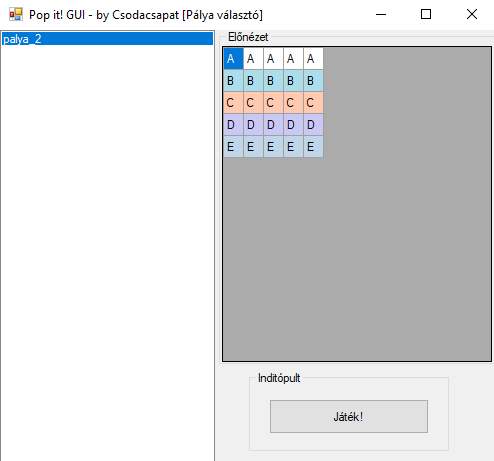
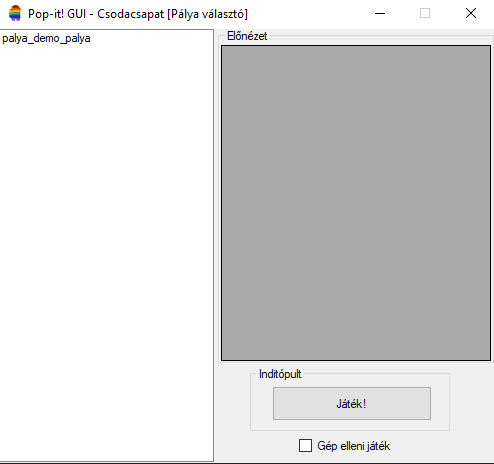
Fejlesztoi dokumentacio kepek

Changed region(s): [[0.0, 0.0, 1.0, 1.0], [0.8502, 0.0, 0.8806, 0.0607], [0.9413, 0.0, 0.9717, 0.0304]]

diff --git a/Pop_it_GUI/Pop_it_GUI/Form1.Designer.cs b/Pop_it_GUI/Pop_it_GUI/Form1.Designer.cs
@@ -60,7 +60,7 @@ namespace Pop_it_GUI
             this.btn_popithub.Name = "btn_popithub";
             this.btn_popithub.Size = new System.Drawing.Size(226, 28);
             this.btn_popithub.TabIndex = 1;
-            this.btn_popithub.Text = "Pop it! - Hub";
+            this.btn_popithub.Text = "Pop-it! - hub";
             this.btn_popithub.UseVisualStyleBackColor = true;
             this.btn_popithub.Click += new System.EventHandler(this.btn_popithub_Click);
             // 
@@ -81,7 +81,7 @@ namespace Pop_it_GUI
             this.btn_generalas.Name = "btn_generalas";
             this.btn_generalas.Size = new System.Drawing.Size(226, 28);
             this.btn_generalas.TabIndex = 2;
-            this.btn_generalas.Text = "Generálás";
+            this.btn_generalas.Text = "Pályagenerálás";
             this.btn_generalas.UseVisualStyleBackColor = true;
             this.btn_generalas.Click += new System.EventHandler(this.btn_generalas_Click);
             // 
@@ -101,9 +101,9 @@ namespace Pop_it_GUI
             this.label1.Font = new System.Drawing.Font("Microsoft Sans Serif", 15.75F, System.Drawing.FontStyle.Bold, System.Drawing.GraphicsUnit.Point, ((byte)(238)));
             this.label1.Location = new System.Drawing.Point(71, 9);
             this.label1.Name = "label1";
-            this.label1.Size = new System.Drawing.Size(239, 25);
+            this.label1.Size = new System.Drawing.Size(240, 25);
             this.label1.TabIndex = 6;
-            this.label1.Text = "Pop it! - Csodacsapat";
+            this.label1.Text = "Pop-it! - Csodacsapat";
             // 
             // label2
             // 
@@ -140,7 +140,7 @@ namespace Pop_it_GUI
             this.MinimumSize = new System.Drawing.Size(402, 309);
             this.Name = "Form1";
             this.StartPosition = System.Windows.Forms.FormStartPosition.CenterScreen;
-            this.Text = "Pop it! GUI - Csodacsapat [Menü]";
+            this.Text = "Pop-it! GUI - Csodacsapat [Menü]";
             this.FormClosed += new System.Windows.Forms.FormClosedEventHandler(this.Form1_FormClosed);
             this.groupBox1.ResumeLayout(false);
             this.ResumeLayout(false);

diff --git a/Pop_it_GUI/Pop_it_GUI/PalyaValasztoForm.Designer.cs b/Pop_it_GUI/Pop_it_GUI/PalyaValasztoForm.Designer.cs
@@ -29,6 +29,7 @@ namespace Pop_it_GUI
         /// </summary>
         private void InitializeComponent()
         {
+            System.ComponentModel.ComponentResourceManager resources = new System.ComponentModel.ComponentResourceManager(typeof(PalyaValasztoForm));
             this.listbox_palyak = new System.Windows.Forms.ListBox();
             this.panel1 = new System.Windows.Forms.Panel();
             this.cb_botPlay = new System.Windows.Forms.CheckBox();
@@ -128,12 +129,13 @@ namespace Pop_it_GUI
             this.Controls.Add(this.panel1);
             this.Controls.Add(this.listbox_palyak);
             this.FormBorderStyle = System.Windows.Forms.FormBorderStyle.FixedSingle;
+            this.Icon = ((System.Drawing.Icon)(resources.GetObject("$this.Icon")));
             this.MaximizeBox = false;
             this.MaximumSize = new System.Drawing.Size(511, 473);
             this.MinimumSize = new System.Drawing.Size(511, 473);
             this.Name = "PalyaValasztoForm";
             this.StartPosition = System.Windows.Forms.FormStartPosition.CenterScreen;
-            this.Text = "Pop it! GUI - Csodacsapat [Pálya választó]";
+            this.Text = "Pop-it! GUI - Csodacsapat [Pálya választó]";
             this.Activated += new System.EventHandler(this.PalyaValasztoForm_Activated);
             this.FormClosed += new System.Windows.Forms.FormClosedEventHandler(this.PalyaValasztoForm_FormClosed);
             this.panel1.ResumeLayout(false);

diff --git a/Pop_it_GUI/Pop_it_GUI/JatekForm.Designer.cs b/Pop_it_GUI/Pop_it_GUI/JatekForm.Designer.cs
@@ -89,7 +89,7 @@ namespace Pop_it_GUI
             this.MinimumSize = new System.Drawing.Size(584, 633);
             this.Name = "JatekForm";
             this.StartPosition = System.Windows.Forms.FormStartPosition.CenterScreen;
-            this.Text = "Pop it! GUI - Csodacsapat [Játék]";
+            this.Text = "Pop-it! GUI - Csodacsapat [Játék]";
             this.FormClosing += new System.Windows.Forms.FormClosingEventHandler(this.JatekForm_FormClosing);
             this.KeyPress += new System.Windows.Forms.KeyPressEventHandler(this.JatekForm_KeyPress);
             ((System.ComponentModel.ISupportInitialize)(this.dgv_jatekter)).EndInit();

diff --git a/Pop_it_GUI/Pop_it_GUI/GeneralasForm.Designer.cs b/Pop_it_GUI/Pop_it_GUI/GeneralasForm.Designer.cs
@@ -312,7 +312,7 @@ namespace Pop_it_GUI
             this.MinimumSize = new System.Drawing.Size(737, 605);
             this.Name = "GeneralasForm";
             this.StartPosition = System.Windows.Forms.FormStartPosition.CenterScreen;
-            this.Text = "Pop it! GUI - Csodacsapat [Generátor]";
+            this.Text = "Pop-it! GUI - Csodacsapat [Generátor]";
             this.FormClosed += new System.Windows.Forms.FormClosedEventHandler(this.GeneralasForm_FormClosed);
             this.DoubleClick += new System.EventHandler(this.GeneralasForm_DoubleClick);
             ((System.ComponentModel.ISupportInitialize)(this.nm_curves)).EndInit();

diff --git a/Pop_it_GUI/Pop_it_GUI/Hub.Designer.cs b/Pop_it_GUI/Pop_it_GUI/Hub.Designer.cs
@@ -97,7 +97,7 @@
             this.MinimumSize = new System.Drawing.Size(360, 411);
             this.Name = "Hub";
             this.StartPosition = System.Windows.Forms.FormStartPosition.CenterScreen;
-            this.Text = "Pop it! GUI - Csodacsapat [Hub]";
+            this.Text = "Pop-it! GUI - Csodacsapat [Hub]";
             this.ResumeLayout(false);
 
         }

diff --git a/Dokumentacio/pop_it_fejlesztoi_dokumentacio.md b/Dokumentacio/pop_it_fejlesztoi_dokumentacio.md
@@ -1,7 +1,62 @@
 # Pop-it! fejlesztői dokumentáció
+
 A Csodacsapat által fejlesztett Pop-it! implementáció C# nyelven, Windows Forms-ban készült. Pop-It! hub ami a szoftver kiegészítő társa pedig PHP nyelven íródott. Ez a dokumentáció a fejlesztőknek szól!
 
 ## I. Pop-it! kliens
+
+### 1. Menü
+
+A menü a nyitó eleme a programunknak, a felszínen csak gombokat látunk, amelyek különböző, más funkcióval bíró formokat nyitnak meg. Ennél többet tényleg nem is csinál a menü, kivéve azt az egyet, hogy a form elindulásakor ellenőrzi, hogy a `palyak` nevű mappa létezik-e. Amennyiben nem, úgy legyártja. Valamint logolja, hogy ez megtörtént (a `logger` osztályról az 5. fejezetben olvashat).
+
+```csharp
+if (!Directory.Exists("palyak"))
+{
+    Directory.CreateDirectory("palyak");
+    logger.LogDebug($"Palyak mappa elkészítve");
+}
+```
+
+### 2. Pályaválasztó
+
+A pályaválasztó ablakkal/formmal van lehetőségünk pályát választani, majd elindítani a játékot vele.\
+Ezen a formon van egy ListBox ami a pályák neveit tárolja, egy előnézeti ablak ami piciben betölti a pályát. Emellett van egy CheckBox elem, amivel előre definiálni tudjuk, hogy egy másik játékos ellen vagy a gép ellen akarunk játszani.
+
+Ez a form is rendelkezik egy példánnyal a `logger` osztályból a logolás végett. Emellett van egy példány a `szinek` osztályból, amivel szineket tudunk kérni az egyes karaktereknek (ez a preview miatt érdekes).
+
+Fontosabb eljárások a `PalyakBeolvasas()` ami a pályákat olvassa be a mappából és listázza ki, valamint állítja össze belőle a listánkat a pályákról (ehhez a `palya` osztályt használja a lista), a `JatekIndit()` ami átadja a pályát a JatekForm-nak (Játéktér). A `listbox_palyak_SelectedIndexChanged()` esemény bázisú eljárásunk felelős azért, hogy a pálya kiválasztásakor a preview ki legyen rajzolva.
+
+**Megjegyzés**: a preview, akár csak a Játéktér, DataGridView elemként jelenik meg, tehát gyakorlatban egy táblázatot renderelünk ki.
+
+### 3. Játéktér
+
+A JatekForm (játéktér) a lelke az egész programnak. Itt játszhatják le a játékosok (vagy a gép és egy játékos) a meccseket. Áll egy táblázatból (DataGridView elem), egy gombból, amellyel hitelesíteni lehet a lépést (be van rá kötve a Space gomb lenyomása ugyanarra az eseményre), valamint egy címke ami nyilván tartja, hogy éppen melyik játékos következik.
+
+A játéktér legfőbb osztálya a `JatekMenedzser` osztály, ami számon tartja a játékosok statisztikáit, ellenőrzi, hogy a lépés amit a felhasználó lépni kíván az érvényes-e. Emellett felelős azért, hogy a pályát kirenderelje (kirajzolja).\
+Fontosabb metódusai:
+- `Render()` - kirendereli a pályát
+- `JatekEllenor()` - ellenőrzi, hogy érvényes-e a lépés, kezeli azt ha vége van a játéknak
+- `KijelolesTorlese()` - törli a felhasználó kijelőlését a játéktérben
+
+### 4. Pop-it! - hub
+
+A Hub form segítségével tudunk tudunk pályákat letölteni a Hubról magáról. Ez a form is használja a `logger` osztályt, valamint van egy `MapObject` osztályunk létrehozva itt, ami azt a célt szolgálja, hogy a lekért pályáknak a neveit és linkjeit objektumokba foglaljuk és úgy irassuk ki a ListBox-ba azokat. A `MapObject` osztály:
+
+```csharp
+public class MapObject
+{
+    public int Id { get; set; }
+    public string MapName { get; set; }
+    public string MapUrl { get; set; }
+    public MapObject(string[] row)
+    {
+        Id = Convert.ToInt32(row[0]);
+        MapName = row[1].Trim();
+        MapUrl = row[2];
+    }
+}
+```
+
+### 5. Többször felhasznált osztályok
 
 ## II. Pop-it! generátor
 
@@ -14,7 +69,7 @@ Megjelenítéshez a Bootstrap 5 CSS, a hozzá tartozó JavaScript és jQuery kö
 
 ### 2. Az oldal strukúrája
 
-### 2.1. Felépítése
+#### 2.1. Felépítése
 
 Az oldal hiearchiája a következő:
 ```
@@ -31,7 +86,7 @@ Az oldal hiearchiája a következő:
 └── palyak-lista.php
 ```
 
-### 2.2. Részei
+#### 2.2. Részei
 
 Az `index.php` oldal szolgálja ki a főoldalt, amelyen lehetőségünk van feltölteni a térképet.
 
@@ -43,7 +98,7 @@ A `palyak-lista.php` szkript pedig visszaadja nekünk a pályák listáját. **F
 
 Az oldal felhasználók által is látható működését már részletesen ledokumentáltuk a felhasználói dokumentációban (II./2. fejezet), így itt arra nem térnénk ki, viszont a motorháztető alatti működését tekintsük át.
 
-### 3.1. A pályafeltöltés menete
+#### 3.1. A pályafeltöltés menete
 
 Az `index.php` által kiszolgált felületen ki kell választani a fájlt amit fel akarunk tölteni. Ezt egy POST request keretében továbbadja a `palya_feltoltese.php` oldalnak/szkriptnek. Ekkor sorrendben a következők történnek:
 - Létrehozza a szkript az esetlegesen jó pályának a randomizált nevét (ezt `random_bytes()` és `bin2hex()` függvényekkel érjük el)
@@ -57,5 +112,15 @@ Az `index.php` által kiszolgált felületen ki kell választani a fájlt amit f
 - Amennyiben a fájl ellenőrzés is lefutott rendben, akkor a már random generált fájlnevünknek megfelelően áthelyezi a `palyak/` mappába.
 - Amennyiben minden tesztünk sikeres volt és a fájlt is átmásolta, egy zöld keretben pozitív üzenet jelenik meg.
 
-### 3.2. Pályák lekérdezése
-A pályákat a kliens a `palyak-lista.php` fájl meghívásával tudja lekérni. A lekérdezésben visszatérő lista pontosvesszővel elválasztva adja vissza a pálya azonosítóját, nevét és elérhetőségét. Azok alapján tudja a fel
+#### 3.2. Pályák lekérdezése
+
+A pályákat a kliens a `palyak-lista.php` fájl meghívásával tudja lekérni. A lekérdezésben visszatérő lista pontosvesszővel elválasztva adja vissza a pálya azonosítóját, nevét és elérhetőségét. Azok alapján tudja a kliens kilistázni és letölteni a pályákat.
+
+Példa egy ilyen lekérdezés eredményére:
+```
+2;palya_vivi;https://dev.ruzger.hu/dusza/palyak/37810fa01a36262625ad6650ef8c4275eb7e7229.txt
+3;palya_asd;https://dev.ruzger.hu/dusza/palyak/8845a0afbae063cd96048f136bb41036ec86876d.txt
+```
+
+Fontos megjegyezni, hogy a pálya azonosítója relatív, a fájlok sorrendjétől függ. Például, tegyük fel, hogy van egy `a.txt`, `b.txt` és egy `c.txt` nevű fájlunk. Ebben az esetben az alábbi mintát fogja követni a listázásunk: **(0 -> ., 1 -> ..,) 2 -> a.txt, 3 -> b.txt, 4 -> c.txt** \
+Viszont ha kitöröljük a `b.txt` fájlunkat akkor: **(0 -> ., 1 -> ..,) 2 -> a.txt, 3 -> c.txt** a sorrend 

diff --git a/Dokumentacio/pop_it_felhasznaloi_dokumentacio.md b/Dokumentacio/pop_it_felhasznaloi_dokumentacio.md
@@ -1,13 +1,35 @@
 # Pop-it! felhasználói dokumentáció
 A Csodacsapat által fejlesztett Pop-it! implementáció C# nyelven, Windows Forms-ban készült. Pop-It! hub ami a szoftver kiegészítő társa pedig PHP nyelven íródott.
 
+A verseny feladat lényege az volt, hogy a címben szereplő Pop-it! játék első verzióban írt implementációját továbbgondolva egy jobb produktumot készítsenek a döntőbe jutott csapatok.
+
+## Tartalomjegyzék
+
+<!-- TOC -->
+
+- [Pop-it! felhasználói dokumentáció](#pop-it-felhaszn%C3%A1l%C3%B3i-dokument%C3%A1ci%C3%B3)
+    - [Tartalomjegyzék](#tartalomjegyz%C3%A9k)
+    - [I. telepítés](#i-telep%C3%ADt%C3%A9s)
+    - [II. Pop-it! GUI használata](#ii-pop-it-gui-haszn%C3%A1lata)
+        - [Játék mód](#j%C3%A1t%C3%A9k-m%C3%B3d)
+            - [Másik játékos ellen](#m%C3%A1sik-j%C3%A1t%C3%A9kos-ellen)
+            - [Játék a gép ellen](#j%C3%A1t%C3%A9k-a-g%C3%A9p-ellen)
+        - [Pop-it! hub](#pop-it-hub)
+            - [Letöltés a Pop-it! hub-ról](#let%C3%B6lt%C3%A9s-a-pop-it-hub-r%C3%B3l)
+            - [Feltöltés a Pop-it! hub-ra](#felt%C3%B6lt%C3%A9s-a-pop-it-hub-ra)
+            - [A pályák formai követelményei](#a-p%C3%A1ly%C3%A1k-formai-k%C3%B6vetelm%C3%A9nyei)
+        - [Pálya generálás](#p%C3%A1lya-gener%C3%A1l%C3%A1s)
+
+<!-- /TOC -->
+
 ## I. telepítés
 A programot nem kell telepíteni, csupán egyetlen fájlból és a hozzá tartozó *palyak* mappából áll. (Megjegyzés: amennyiben nincs *palyak* mappája, úgy a program automatikusan létre fogja hozni.)
 
 ## II. Pop-it! GUI használata
 ### 1. Játék mód
-A szoftverben csak helyi játékra van lehetőség. Ez azt jelenti, hogy a két játékos egy gépen tud játszani egymás ellen. (Akárcsak a régi szép időkben.) [Játékostárs hiányában akár a gép ellen is játszhatunk.]
-### 1.1. Másik játékos ellen
+A szoftverben csak helyi játékra van lehetőség. Ez azt jelenti, hogy a két játékos egy gépen tud játszani egymás ellen. Játékostárs hiányában van lehetőségünk a gép ellen is játszani. Erről bővebben az 1.2. pontban olvashat!
+
+#### 1.1. Másik játékos ellen
 Ahhoz, hogy egy másik játékossal játszani tudjunk kövessük az alábbi lépéseket:
 1. Nyomjunk rá a menüben a *Játék helyi gépen* gombra!
 
@@ -70,15 +92,18 @@ Amennyiben a játéknak vége, úgy az alábbi üzenetek jelennek meg.
     <figcaption align="center"><sup>6. ábra - Statisztika a játékosok teljesítményéről</sup></figcaption>
 </figure>
 
-### 1.2. Játék a gép ellen
-[Ide még várunk anyagot, lehet hogy töröljük a fejezetet.]
+#### 1.2. Játék a gép ellen
+
+A gép ellen ugyanúgy tudunk játékot kezdeményezni mintha egy valódi játékossal játszanánk, csupán a pályaválasztón (lásd 2. ábra) található *Gép elleni játék* dobozt kell bepipálni.
+
+Gép elleni játék esetén a *Játékos 1* Ön és a *Játékos 2* a gép!
 
 ### 2. Pop-it! hub
 A Pop-it! hub egy olyan rendszer ami elősegíti, hogy a játékosok a jobbnál-jobb pályáikat megoszthassák mással, így többen ki tudják próbálni azokat. 
 
 A Pop-it! hub-nak két fontos része van. Az egyik maga a kliens, ami képes a pályakat letölteni, valamint a weboldalunk ami ezeket a tartalmakat kiszolgálja, valamint lehetőséget nyújt arra, hogy le is töltsük azokat. Az alábbiakban azt láthatja, hogyan lehet le- illetve feltölteni pályákat.
 
-### 2.1. Letöltés a Pop-it! hub-ról
+#### 2.1. Letöltés a Pop-it! hub-ról
 Ahhoz, hogy a hub-ról le tudjunk tölteni pályákat az 1. ábrán már latható menüben nyomjunk rá a *Pop-it! - Hub* gombra. Ekkor az alábbi ablak jelenik meg.
 
 <figure align="center">
@@ -90,7 +115,7 @@ Az ábrán szereplő lista nem reprezentatív. A pályák nevei mindig annak a f
 
 A pálya kiválasztása után nyomjunk rá a *Letöltés* gombra. Az alsó progressbar valamint a felette lévő szöveg jelzi, ha a letöltésünk befejeződött. Miután a letöltést befejezte, az 1. fejezetnek megfelelően már lehet is játszani vele.
 
-### 2.2. Feltöltés a Pop-it! hub-ra
+#### 2.2. Feltöltés a Pop-it! hub-ra
 Ahhoz, hogy a hub-ra fel tudjunk tölteni pályák, ahhoz a 7. ábrán látható ablakban nyomjunk rá a *Feltöltés* gombra. Ez meg fogja nyitni az operációs rendszerünkben alapértelmezetten beállított böngészőt, benne pedig a Pop-it! hub oldalát.
 
 <figure align="center">
@@ -124,7 +149,7 @@ A hibaüzenetek a következők lehetnek:
 - "A feltöltött fájlod valamely specifikációnknak nem felelt meg. Kérlek javítsd ki a fájlodat és próbáld meg újra!"
 - "Elnézést, rendszerhiba történt. Próbáld meg újra!"
 
-### 2.2.1. A pályák formai követelményei
+#### 2.2.1. A pályák formai követelményei
 A sikeres pálya feltöltéshez néhány elengedhetetlen követelménynek teljesülnie kell. A követelmények a következők:
 - A pálya állományának **.txt** kiterjesztésünek kell lennie!
 - A fájl első sora tartalmazza a pálya nevét. **Figyelem!** Ennek a névnek egyedinek kell lennie! Amennyiben egy már létező pályának a nevét használja fel, úgy a rendszer visszadobja a feltöltött állományt!
@@ -132,7 +157,7 @@ A sikeres pálya feltöltéshez néhány elengedhetetlen követelménynek teljes
 - A fájl további részében a második sorban leirtaknak megfelelő *sorok* és *oszlopok* következnek. Ez maga a pálya amivel a játékosok játszhatnak. Színkód könyvtárunk jelenleg **105** féle karaktert támogat.
 
 ### 3. Pálya generálás
-A programban lehetőségünk van pályákat generálni, melyekkel később játszhatunk és/vagy feltölthetjük a Pop-it! hub-ra. Ahhoz, hogy megnyissuk a generátor, a már ismert menüben (1. ábra) nyomjunk rá a *Generálás* gombra! Ekkor az alábbi ablak lesz látható:
+A programban lehetőségünk van pályákat generálni, melyekkel később játszhatunk és/vagy feltölthetjük a Pop-it! hub-ra. Ahhoz, hogy megnyissuk a generátor, a már ismert menüben (1. ábra) nyomjunk rá a *Pályagenerálás* gombra! Ekkor az alábbi ablak lesz látható:
 
 <figure align="center">
     <img src="illusztraciok/felhasznaloi/generator_ures.png">
